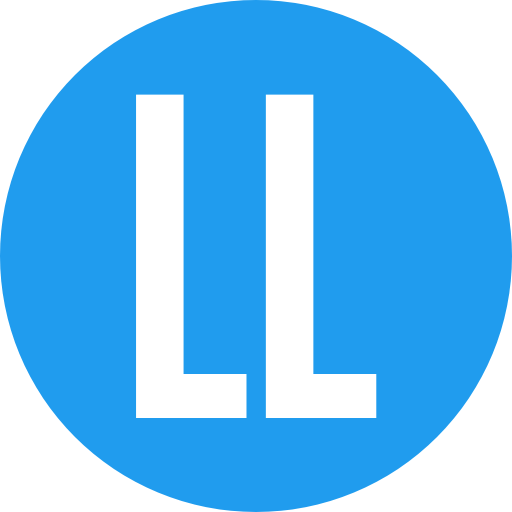
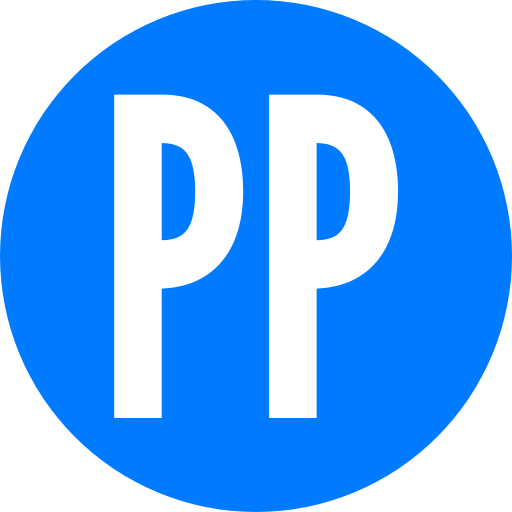
프로젝트 이름(+파비콘) 변경

diff --git a/src/main/resources/templates/layout/default_layout.html b/src/main/resources/templates/layout/default_layout.html
@@ -3,49 +3,221 @@
 <head>
     <meta charset="UTF-8">
     <meta name="viewport" content="width=device-width, initial-scale=1.0">
-    <title layout:title-pattern="$CONTENT_TITLE - $LAYOUT_TITLE">LoreLoom</title>
+    <title layout:title-pattern="$CONTENT_TITLE - $LAYOUT_TITLE">PlotPath</title>
     <link rel="apple-touch-icon" sizes="180x180" th:href="@{/apple-touch-icon.png}">
     <link rel="icon" type="image/png" sizes="32x32" th:href="@{/favicon-32x32.png}">
     <link rel="icon" type="image/png" sizes="16x16" th:href="@{/favicon-16x16.png}">
     <style>
-        html { background-color: #dcdcdc; }
-        body { font-family: -apple-system, BlinkMacSystemFont, "Segoe UI", Roboto, "Helvetica Neue", Arial, sans-serif; margin: 0; padding: 0; color: #333; min-height: 100vh; }
-        .header { display: flex; justify-content: space-between; align-items: center; padding: 0 15px; background-color: #fff; border-bottom: 1px solid #e0e0e0; position: relative; top: 0; left: 0; right: 0; z-index: 1000; height: 56px; box-sizing: border-box; }
-        .header-left { display: flex; align-items: center; gap: 15px; }
-        .header .menu-icon { font-size: 24px; color: #555; text-decoration: none; cursor: pointer; display: block; padding: 8px; position: relative; z-index: 1201; }
-        .header .login-prompt-header a { text-decoration: none; color: #FF9800; font-weight: 500; font-size: 14px; }
-        .header-center { position: absolute; left: 50%; top: 50%; transform: translate(-50%, -50%); }
-        .logo-link { text-decoration: none; }
-        .logo-text { font-size: 22px; font-weight: bold; letter-spacing: -1px; color: #007bff; }
-        .header-right { display: flex; align-items: center; gap: 10px; }
-        .user-info-header { display: flex; align-items: center; gap: 10px; }
-        .profile-placeholder { width: 32px; height: 32px; border-radius: 50%; border: 1.5px solid #333; box-sizing: border-box; }
-        .user-nickname { color: #007bff; font-weight: bold; font-size: 15px; }
-        .logout-link { font-size: 0.8em; color: #555; text-decoration: none; border: 1px solid #ccc; padding: 2px 6px; border-radius: 4px; margin-left: 2px; }
-        .logout-link:hover { background-color: #f0f0f0; border-color: #aaa; }
-        .header .header-search-input { padding: 6px 10px; border: 1px solid #ccc; border-radius: 15px; font-size: 14px; width: 150px; transition: width 0.3s ease-in-out; }
-        .header .header-search-input:focus { width: 200px; }
-        .header .search-icon-header { font-size: 22px; color: #555; text-decoration: none; padding: 8px; cursor: pointer; }
-        .header .search-icon-header svg { display: block; }
-        .side-menu { position: fixed; top: 0; left: 0; width: max-content; min-width: 220px; max-width: 80vw; height: 100vh; background-color: #ffffff; border-right: 1px solid #e0e0e0; box-shadow: 2px 0 10px rgba(0,0,0,0.05); z-index: 1200; box-sizing: border-box; transform: translateX(-105%); transition: transform 0.3s ease-in-out; overflow-y: auto; display: flex; flex-direction: column; padding: 0; }
+        html {
+            background-color: #dcdcdc;
+        }
+        body {
+            font-family: -apple-system, BlinkMacSystemFont, "Segoe UI", Roboto, "Helvetica Neue", Arial, sans-serif;
+            margin: 0;
+            padding: 0;
+            color: #333;
+            min-height: 100vh;
+        }
+        .header {
+            display: flex;
+            justify-content: space-between;
+            align-items: center;
+            padding: 0 15px;
+            background-color: #fff;
+            border-bottom: 1px solid #e0e0e0;
+            position: relative;
+            top: 0;
+            left: 0;
+            right: 0;
+            z-index: 1000;
+            height: 56px;
+            box-sizing: border-box;
+        }
+        .header-left {
+            display: flex;
+            align-items: center;
+            gap: 15px;
+        }
+        .header .menu-icon {
+            font-size: 24px;
+            color: #555;
+            text-decoration: none;
+            cursor: pointer;
+            display: block;
+            padding: 8px;
+            position: relative;
+            z-index: 1201;
+        }
+        .header .login-prompt-header a {
+            text-decoration: none;
+            color: #FF7043;
+            font-weight: 500;
+            font-size: 14px;
+        }
+        .header-center {
+            position: absolute;
+            left: 50%;
+            top: 50%;
+            transform: translate(-50%, -50%);
+        }
+        .logo-link {
+            text-decoration: none;
+        }
+        /* ===== 로고 색상 변경 ===== */
+        .logo-text {
+            font-size: 22px;
+            font-weight: bold;
+            letter-spacing: -1px;
+            color: #2196F3; /* 파비콘의 파란색으로 변경 */
+        }
+        /* ======================== */
+        .header-right {
+            display: flex;
+            align-items: center;
+            gap: 10px;
+        }
+        .user-info-header {
+            display: flex;
+            align-items: center;
+            gap: 10px;
+        }
+        .profile-placeholder {
+            width: 32px;
+            height: 32px;
+            border-radius: 50%;
+            border: 1.5px solid #333;
+            box-sizing: border-box;
+        }
+        .user-nickname {
+            color: #007bff;
+            font-weight: bold;
+            font-size: 15px;
+        }
+        .logout-link {
+            font-size: 0.8em;
+            color: #555;
+            text-decoration: none;
+            border: 1px solid #ccc;
+            padding: 2px 6px;
+            border-radius: 4px;
+            margin-left: 2px;
+        }
+        .logout-link:hover {
+            background-color: #f0f0f0;
+            border-color: #aaa;
+        }
+        .header .header-search-input {
+            padding: 6px 10px;
+            border: 1px solid #ccc;
+            border-radius: 15px;
+            font-size: 14px;
+            width: 150px;
+            transition: width 0.3s ease-in-out;
+        }
+        .header .header-search-input:focus {
+            width: 200px;
+        }
+        .header .search-icon-header {
+            font-size: 22px;
+            color: #555;
+            text-decoration: none;
+            padding: 8px;
+            cursor: pointer;
+        }
+        .header .search-icon-header svg {
+            display: block;
+        }
+        .side-menu {
+            position: fixed; top: 0; left: 0; width: max-content; min-width: 220px;
+            max-width: 80vw; height: 100vh; background-color: #ffffff; border-right: 1px solid #e0e0e0;
+            box-shadow: 2px 0 10px rgba(0,0,0,0.05); z-index: 1200;
+            box-sizing: border-box; transform: translateX(-105%); transition: transform 0.3s ease-in-out;
+            overflow-y: auto;
+            display: flex;
+            flex-direction: column;
+            padding: 0;
+        }
         .side-menu.active { transform: translateX(0); }
-        .side-menu .close-menu-btn { font-size: 24px; color: #555; background: none; border: none; cursor: pointer; padding: 4px; }
+        .side-menu .close-menu-btn {
+            font-size: 24px; color: #555; background: none; border: none;
+            cursor: pointer; padding: 4px;
+        }
         .side-menu .close-menu-btn:hover { color: #000; }
-        .side-menu-top { padding: 10px 15px; }
-        .side-menu-profile { display: flex; justify-content: space-between; align-items: center; gap: 12px; padding: 10px; border-bottom: 1px solid #f0f0f0; }
-        .side-menu-profile-info { display: flex; align-items: center; gap: 12px; }
-        .profile-placeholder-side { width: 32px; height: 32px; border-radius: 50%; border: 1.5px solid #333; flex-shrink: 0; }
-        .user-nickname-side { font-weight: bold; font-size: 15px; }
-        .side-menu-login-prompt { font-size: 15px; font-weight: 500; color: #FF9800; }
-        .side-menu-main { list-style: none; padding: 0; margin: 0; flex-grow: 1; }
-        .side-menu-main li a, .side-menu-main li span { display: block; padding: 14px 25px; text-decoration: none; color: #333; font-size: 16px; white-space: nowrap; }
-        .side-menu-main li a:hover { background-color: #f0f0f0; }
-        .menu-separator { height: 1px; background-color: #e0e0e0; margin: 8px 0; }
-        .disabled-link { color: #aaa !important; cursor: not-allowed; }
-        .side-menu-bottom { padding: 15px 25px; border-top: 1px solid #e0e0e0; }
-        .side-menu-bottom a { display: block; text-decoration: none; color: #555; font-size: 15px; }
-        .side-menu-bottom a:hover { color: #000; }
-        .overlay { display: none; position: fixed; top: 0; left: 0; width: 100%; height: 100%; background-color: rgba(0, 0, 0, 0.5); z-index: 1100; }
+        .side-menu-top {
+            padding: 10px 15px;
+        }
+        .side-menu-profile {
+            display: flex;
+            justify-content: space-between;
+            align-items: center;
+            gap: 12px;
+            padding: 10px;
+            border-bottom: 1px solid #f0f0f0;
+        }
+        .side-menu-profile-info {
+            display: flex;
+            align-items: center;
+            gap: 12px;
+        }
+        .profile-placeholder-side {
+            width: 32px;
+            height: 32px;
+            border-radius: 50%;
+            border: 1.5px solid #333;
+            flex-shrink: 0;
+        }
+        .user-nickname-side {
+            font-weight: bold;
+            font-size: 15px;
+        }
+        .side-menu-login-prompt {
+            font-size: 15px;
+            font-weight: 500;
+            color: #FF7043;
+        }
+        .side-menu-main {
+            list-style: none;
+            padding: 0;
+            margin: 0;
+            flex-grow: 1;
+        }
+        .side-menu-main li a, .side-menu-main li span {
+            display: block;
+            padding: 14px 25px;
+            text-decoration: none;
+            color: #333;
+            font-size: 16px;
+            white-space: nowrap;
+        }
+        .side-menu-main li a:hover {
+            background-color: #f0f0f0;
+        }
+        .menu-separator {
+            height: 1px;
+            background-color: #e0e0e0;
+            margin: 8px 0;
+        }
+        .disabled-link {
+            color: #aaa !important;
+            cursor: not-allowed;
+        }
+        .side-menu-bottom {
+            padding: 15px 25px;
+            border-top: 1px solid #e0e0e0;
+        }
+        .side-menu-bottom a {
+            display: block;
+            text-decoration: none;
+            color: #555;
+            font-size: 15px;
+        }
+        .side-menu-bottom a:hover {
+            color: #000;
+        }
+        .overlay {
+            display: none; position: fixed; top: 0; left: 0; width: 100%; height: 100%;
+            background-color: rgba(0, 0, 0, 0.5); z-index: 1100;
+        }
         .overlay.active { display: block; }
         .main-content { padding: 15px; }
         .content-section { margin-bottom: 25px; background-color: #fff; padding: 15px; border-radius: 8px; box-shadow: 0 2px 4px rgba(0,0,0,0.05); }
@@ -60,11 +232,44 @@
         .work-card .work-info { padding: 10px; }
         .work-card h3 { font-size: 15px; margin: 0 0 5px 0; white-space: nowrap; overflow: hidden; text-overflow: ellipsis; }
         .work-card p { font-size: 13px; color: #666; margin: 0; }
+
+        /* 상세 페이지용 스타일 */
+        .detail-section { max-width: 800px; margin: 0 auto; }
+        .detail-poster-wrapper { text-align: center; margin-bottom: 25px; }
+        .detail-poster-wrapper img { max-width: 100%; width: 350px; border-radius: 8px; box-shadow: 0 4px 12px rgba(0,0,0,0.15); }
+        .detail-title-wrapper { text-align: center; margin-bottom: 20px; padding-bottom: 20px; }
+        .detail-title-wrapper h1 { margin-bottom: 5px; font-size: 2.2em; }
+        .detail-title-wrapper .title-original { font-size: 1.1em; color: #888; }
+        .detail-meta-list { list-style: none; padding: 20px; margin: 25px 0; border: 1px solid #e0e0e0; border-radius: 8px; }
+        .detail-meta-list li { margin-bottom: 12px; font-size: 16px; display: flex; }
+        .detail-meta-list li:last-child { margin-bottom: 0; }
+        .detail-meta-list strong { flex-shrink: 0; width: 100px; color: #555; }
+        .detail-separator { height: 1px; background-color: #e0e0e0; margin: 30px 0; }
+        .detail-description { font-size: 16px; line-height: 1.8; color: #333; white-space: pre-wrap; }
+        .action-buttons-wrapper { text-align: center; margin-top: 30px; }
+        .action-buttons { display: flex; gap: 15px; justify-content: center; }
+        .action-buttons .btn { display: flex; align-items: center; gap: 8px; padding: 10px 20px; border: 1px solid #ccc; border-radius: 25px; text-decoration: none; font-weight: bold; cursor: pointer; font-size: 16px; transition: background-color 0.2s; }
+        .action-buttons .btn svg { width: 20px; height: 20px; }
+        .btn-wishlist { background-color: #fff; color: #333; border-color: #ccc; }
+        .btn-wishlist:hover { background-color: #f5f5f5; }
+        .btn-rate { background-color: #fff; color: #333; border-color: #ccc; }
+        .btn-rate:hover { background-color: #f5f5f5; }
+        @media (min-width: 768px) {
+            .detail-container { display: flex; gap: 30px; text-align: left; }
+            .detail-poster-wrapper { text-align: left; margin-bottom: 0; }
+            .detail-poster-wrapper img { width: 300px; }
+            .detail-info { flex-grow: 1; }
+            .detail-title-wrapper { text-align: left; }
+            .action-buttons-wrapper { text-align: left; }
+            .action-buttons { justify-content: flex-start; }
+        }
     </style>
     <th:block layout:fragment="css"></th:block>
 </head>
 <body>
+
 <div class="overlay" id="pageOverlay"></div>
+
 <header class="header">
     <div class="header-left">
         <a href="javascript:void(0);" class="menu-icon" id="menuToggleBtn">☰</a>
@@ -79,7 +284,7 @@
     </div>
     <div class="header-center">
         <a th:href="@{/}" class="logo-link">
-            <span class="logo-text">LoreLoom</span>
+            <span class="logo-text">PlotPath</span>
         </a>
     </div>
     <div class="header-right">

diff --git a/src/main/resources/templates/home.html b/src/main/resources/templates/home.html
@@ -1,7 +1,7 @@
 <!DOCTYPE html>
 <html lang="ko" xmlns:th="http://www.thymeleaf.org" xmlns:layout="http://www.ultraq.net.nz/thymeleaf/layout" layout:decorate="~{layout/default_layout}">
 <head>
-    <title>홈 - LoreLoom</title>
+    <title>PlotPath</title>
 </head>
 <th:block layout:fragment="content">
     <main class="main-content">
